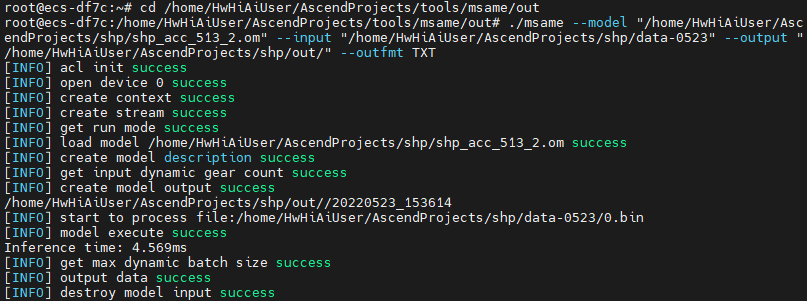
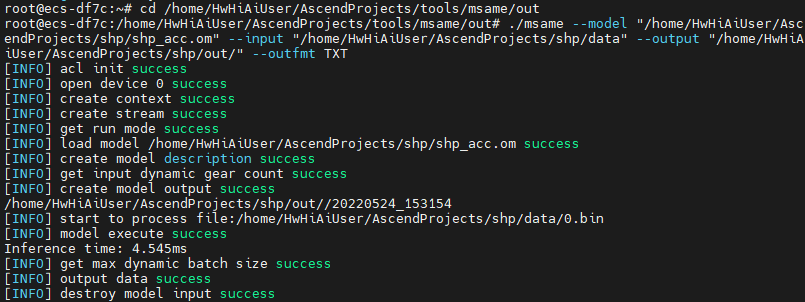
update README.md.

Changed region(s): [[0.0, 0.0, 1.0, 1.0]]

diff --git a/ACL_TensorFlow/contrib/cv/SimpleHumanPose_ID0956_for_ACL/README.md b/ACL_TensorFlow/contrib/cv/SimpleHumanPose_ID0956_for_ACL/README.md
@@ -90,10 +90,18 @@ image.tofile(bin_path)
 count += 1
 ```
 ### 推理测试
-使用msame推理工具，参考如下命令，发起推理测试：
+使用msame推理工具，参考如下命令，发起推理测试。我们只使用了测试集中的部分数据进行推理（即如下命令中的data文件夹只包含360个bin文件）。
 
 ```
 ./msame --model "/home/HwHiAiUser/AscendProjects/shp/shp_acc.om" --input "/home/HwHiAiUser/AscendProjects/shp/data" --output "/home/HwHiAiUser/AscendProjects/shp/out/" --outfmt TXT
 ```
 推理结果如下图所示：
 ![输入图片说明](src/assets/acl_result.png)
+
+然后使用获取到的推理结果计算精度，具体代码在main/pb_inference.py中。
+
+### 推理精度
+|Methods|AP|AP.5 |AP.75|AP(M)|AP(L)|AR|AR.5|AR.75|AR(M|AR(L)|
+|--|--|--|--|--|--|--|--|--|--|--|
+|原论文|70.2|89.0|77.6|66.8|76.9|76.0|93.1|82.7|71.7|82.3|
+|离线推理|64.0|86.4|71.9|60.8|71.1|72.5|91.6|79.5|67.5|79.4|
